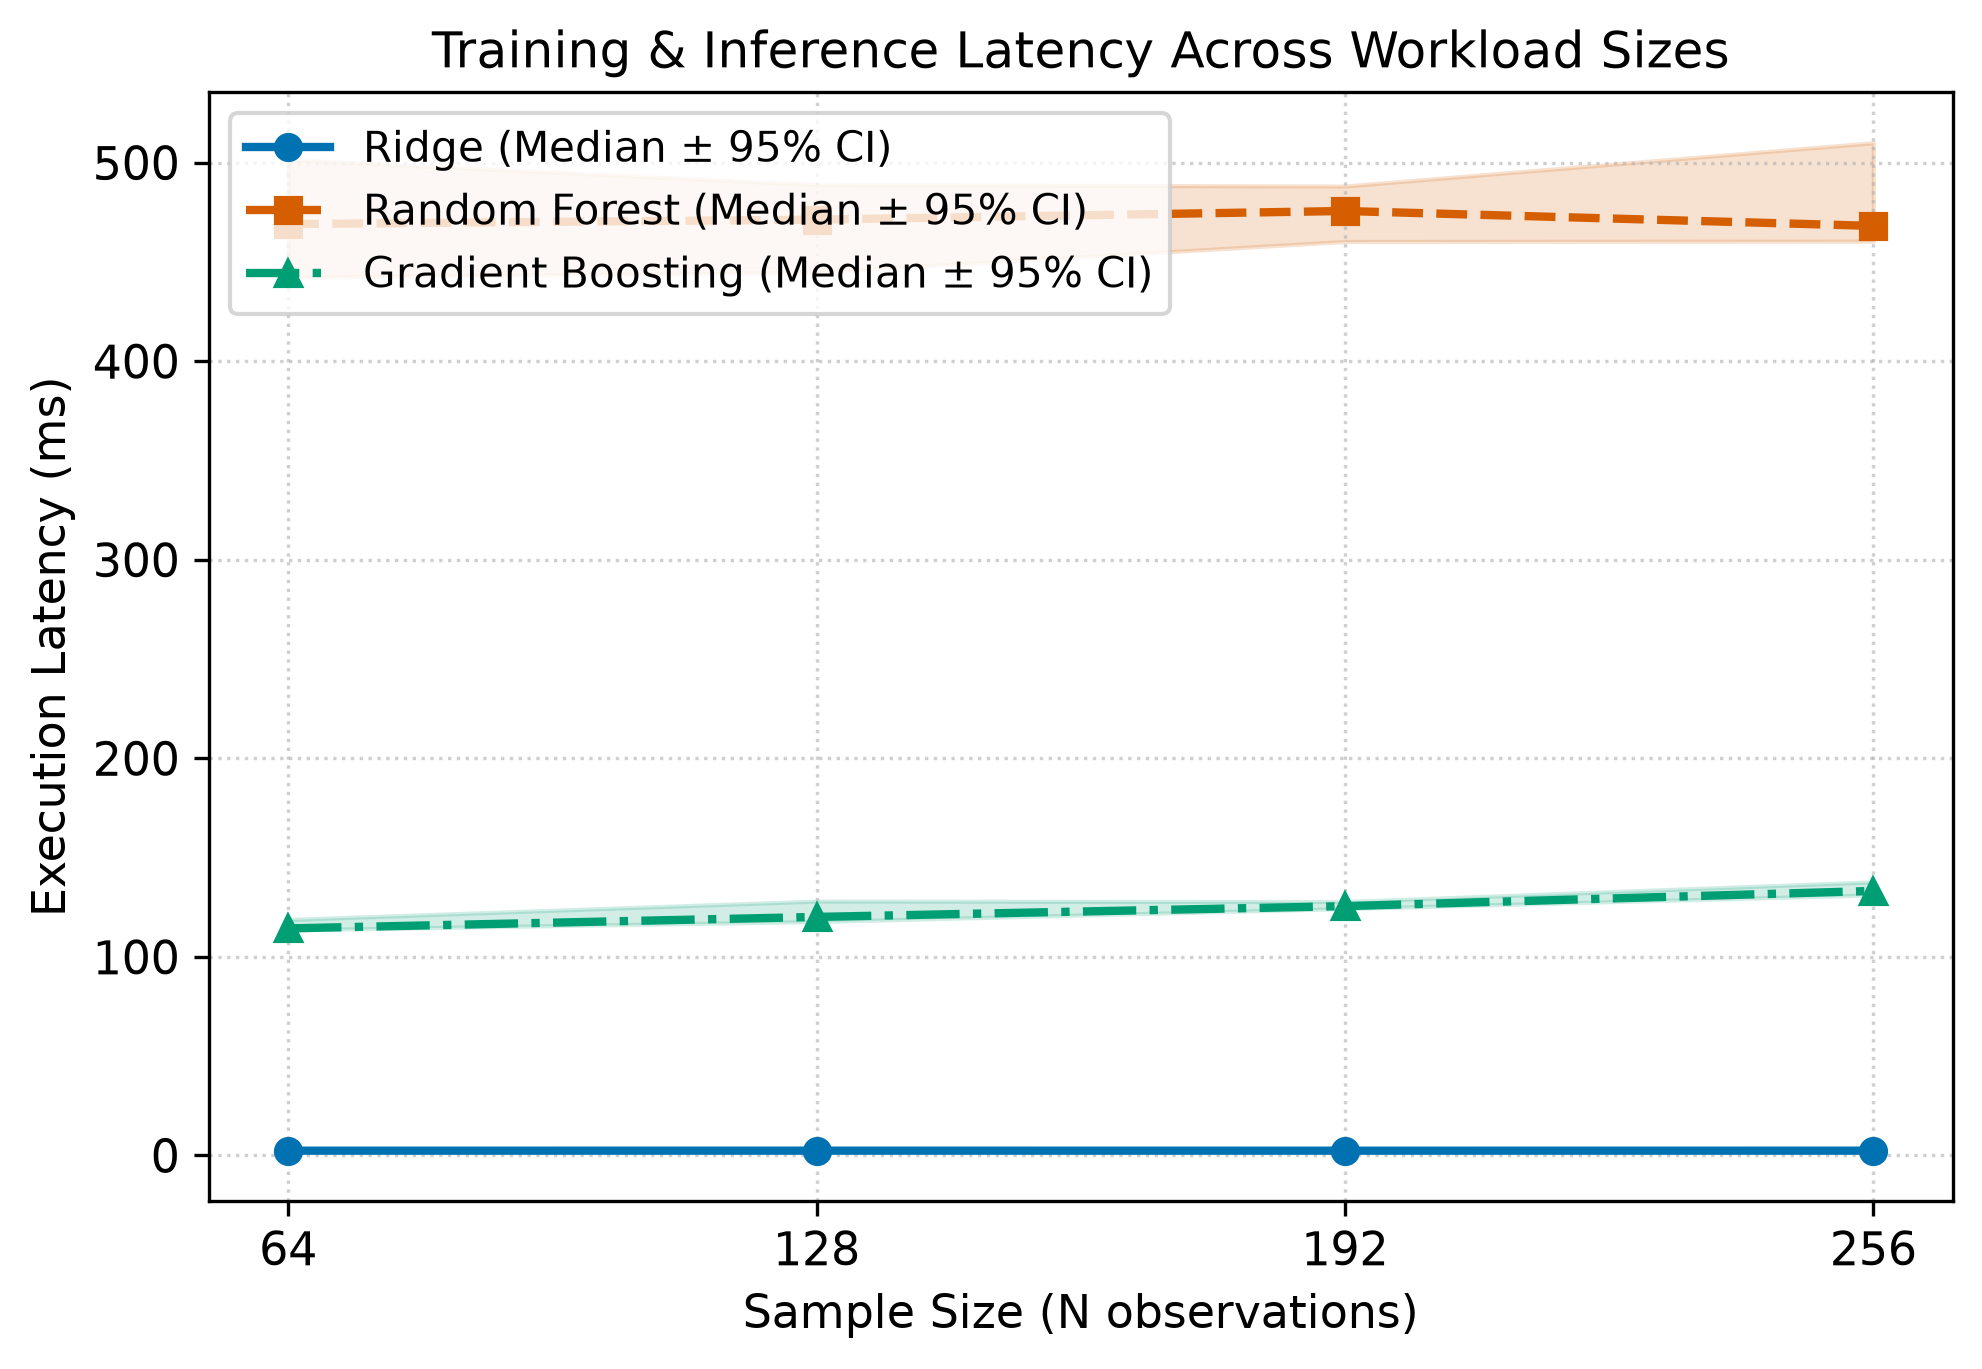
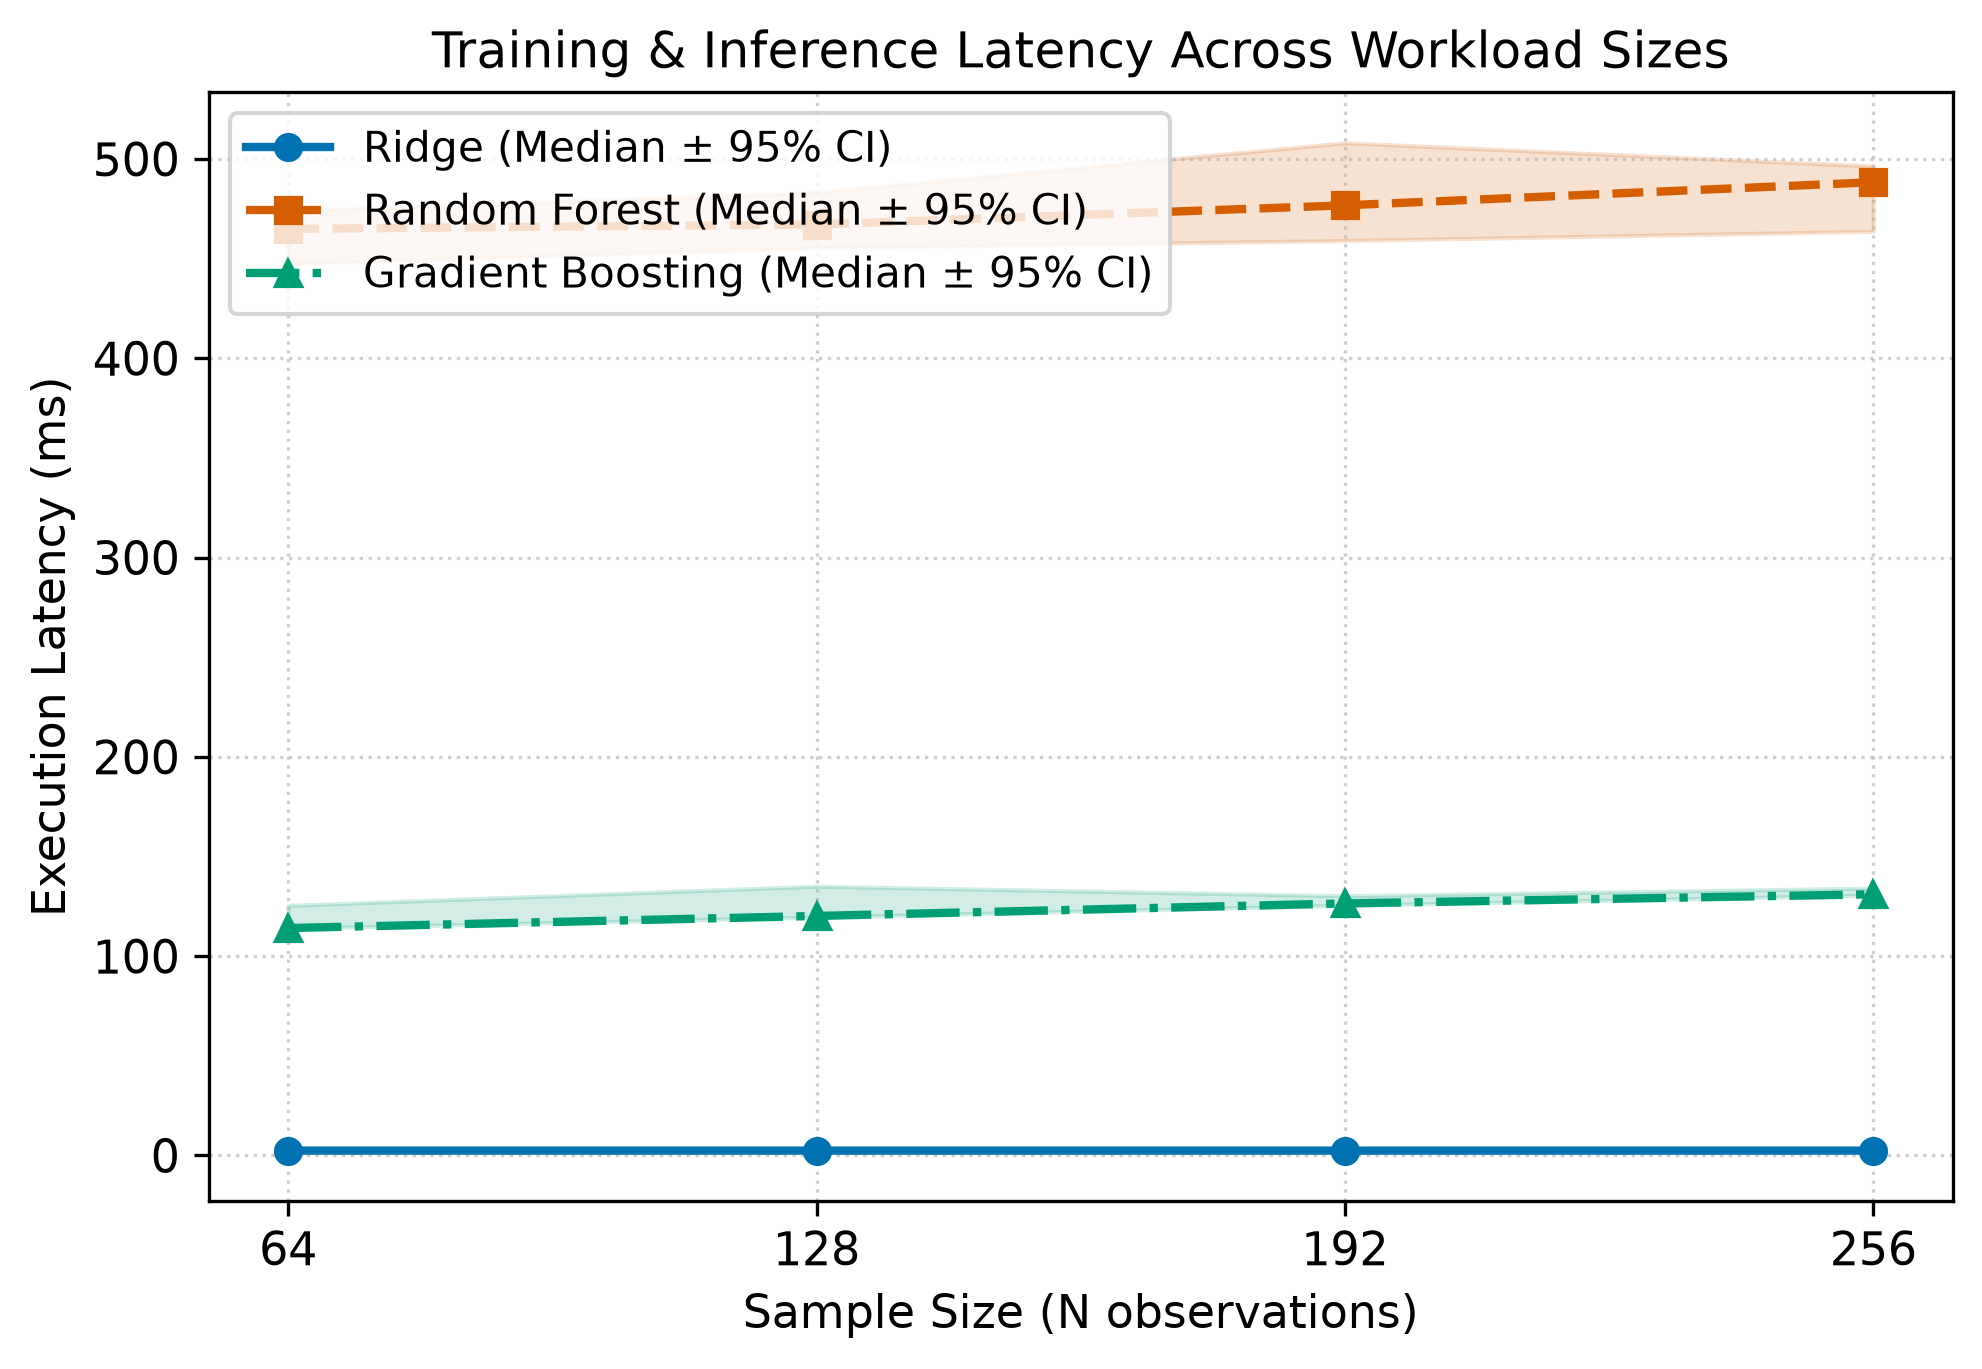
Fix relative paths in process_data and visualize for notebook execution

diff --git a/src/process_data.py b/src/process_data.py
@@ -38,8 +38,9 @@ def process_logs(config_path: str) -> pd.DataFrame:
     n_boot = int(exp_cfg.get("bootstrap_iterations", 2000))
     ci_level = float(exp_cfg.get("confidence_level", 0.95))
 
-    raw_logs_path = Path(paths_cfg["raw_logs"])
-    summary_csv_path = Path(paths_cfg["summary_csv"])
+    root = Path(__file__).resolve().parent.parent
+    raw_logs_path = root / paths_cfg["raw_logs"]
+    summary_csv_path = root / paths_cfg["summary_csv"]
     summary_csv_path.parent.mkdir(parents=True, exist_ok=True)
 
     with open(raw_logs_path, "r", encoding="utf-8") as f:

diff --git a/src/visualize.py b/src/visualize.py
@@ -25,8 +25,9 @@ def generate_plots(config_path: str) -> None:
     with open(config_path, "r", encoding="utf-8") as f:
         cfg = yaml.safe_load(f)
 
-    summary_csv = Path(cfg["paths"]["summary_csv"])
-    figures_dir = Path(cfg["paths"]["figures_dir"])
+    root = Path(__file__).resolve().parent.parent
+    summary_csv = root / cfg["paths"]["summary_csv"]
+    figures_dir = root / cfg["paths"]["figures_dir"]
     df = pd.read_csv(summary_csv)
 
     plt.rcParams.update({
